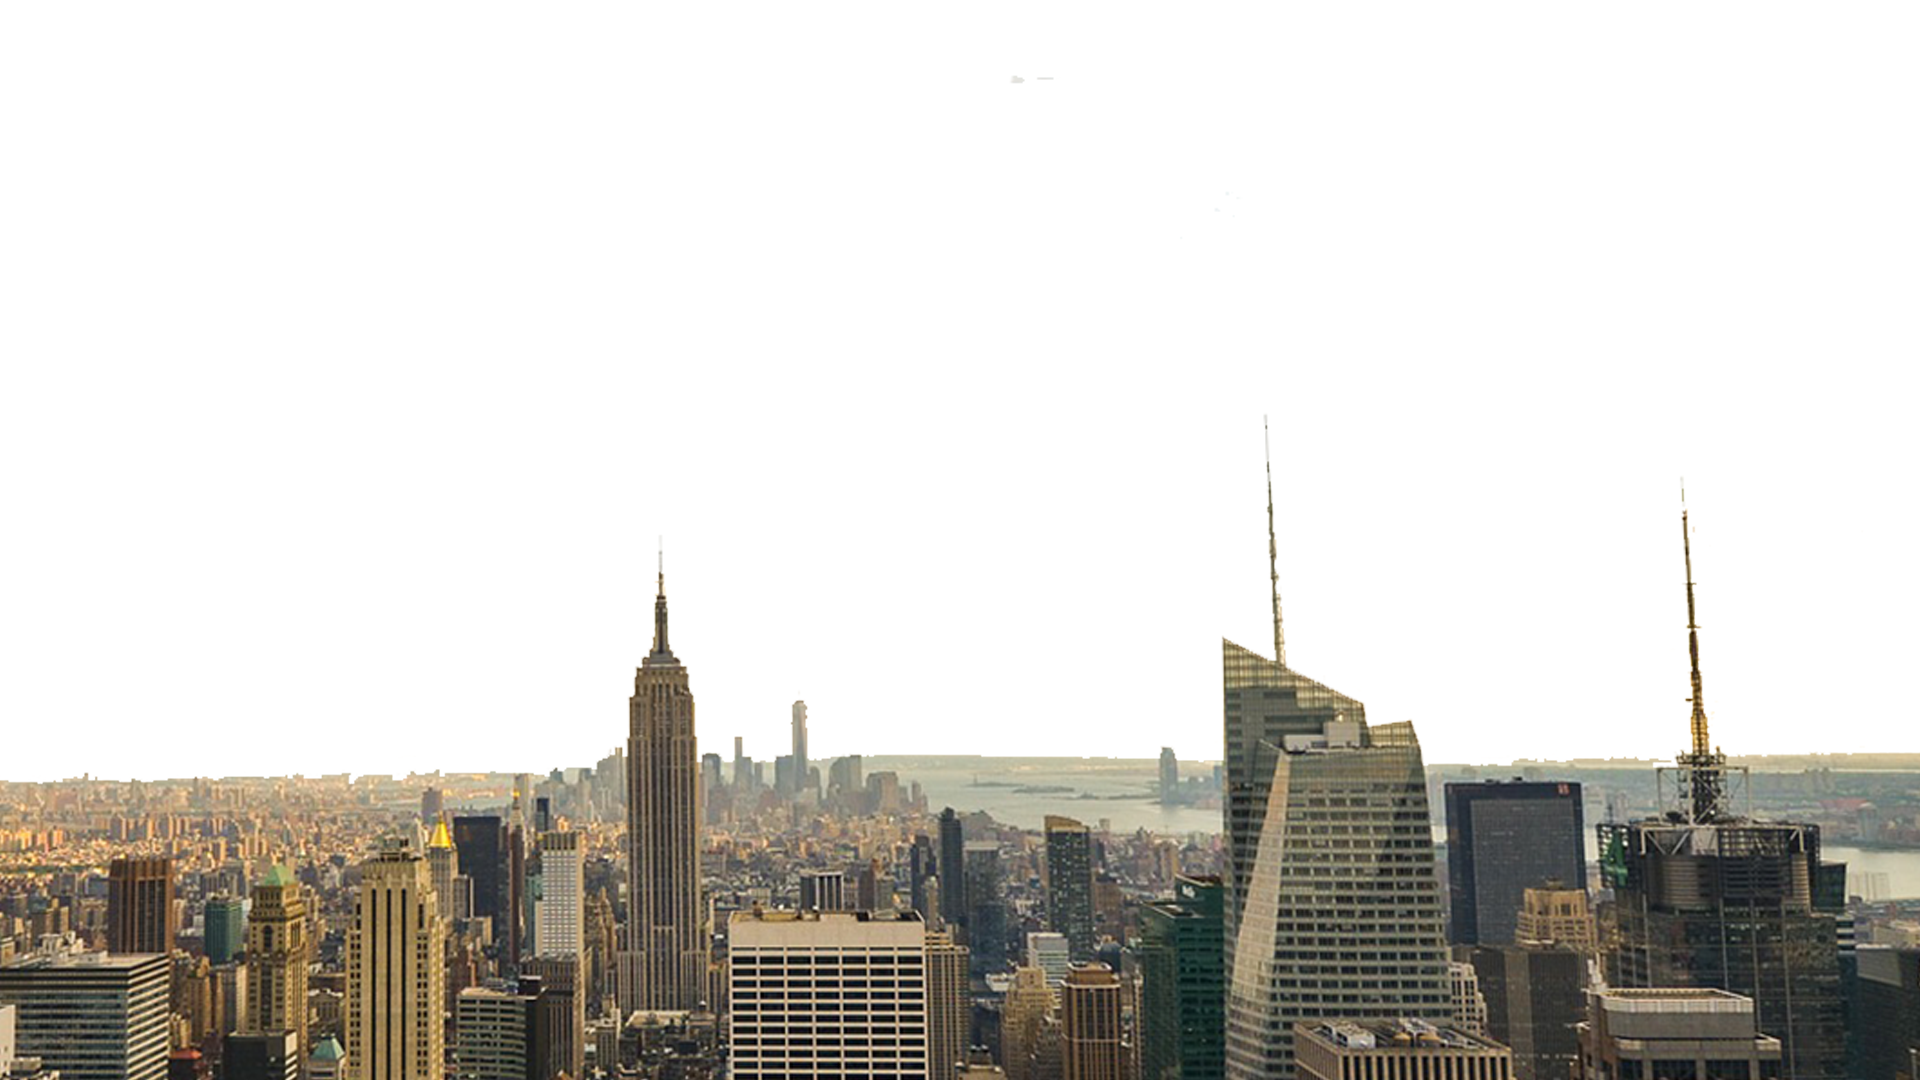
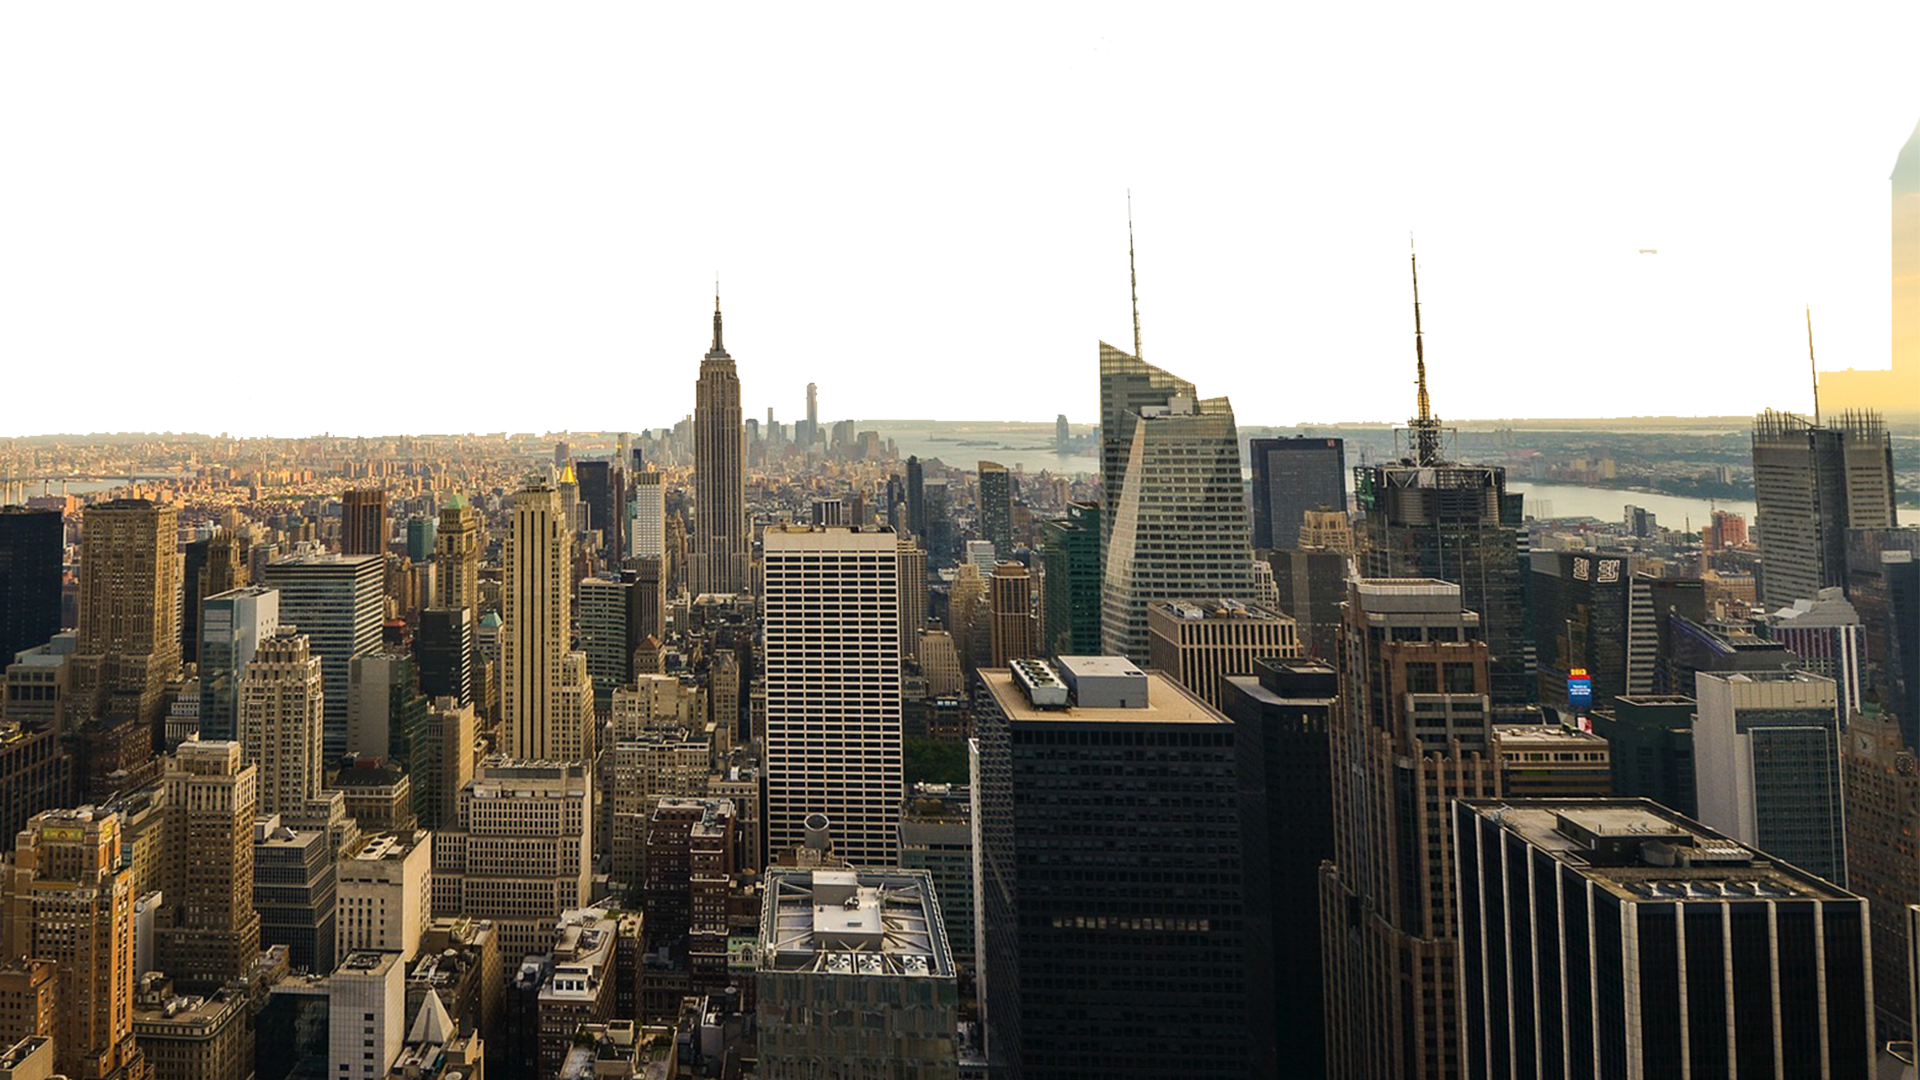
test

diff --git a/trump-rises/css/style.css b/trump-rises/css/style.css
@@ -17,7 +17,7 @@ html {
 
 .container {
   width: 100%;
-  height: 400px;
+  height: 100%;
   overflow: hidden;
   top: 50%;
   left: 50%;
